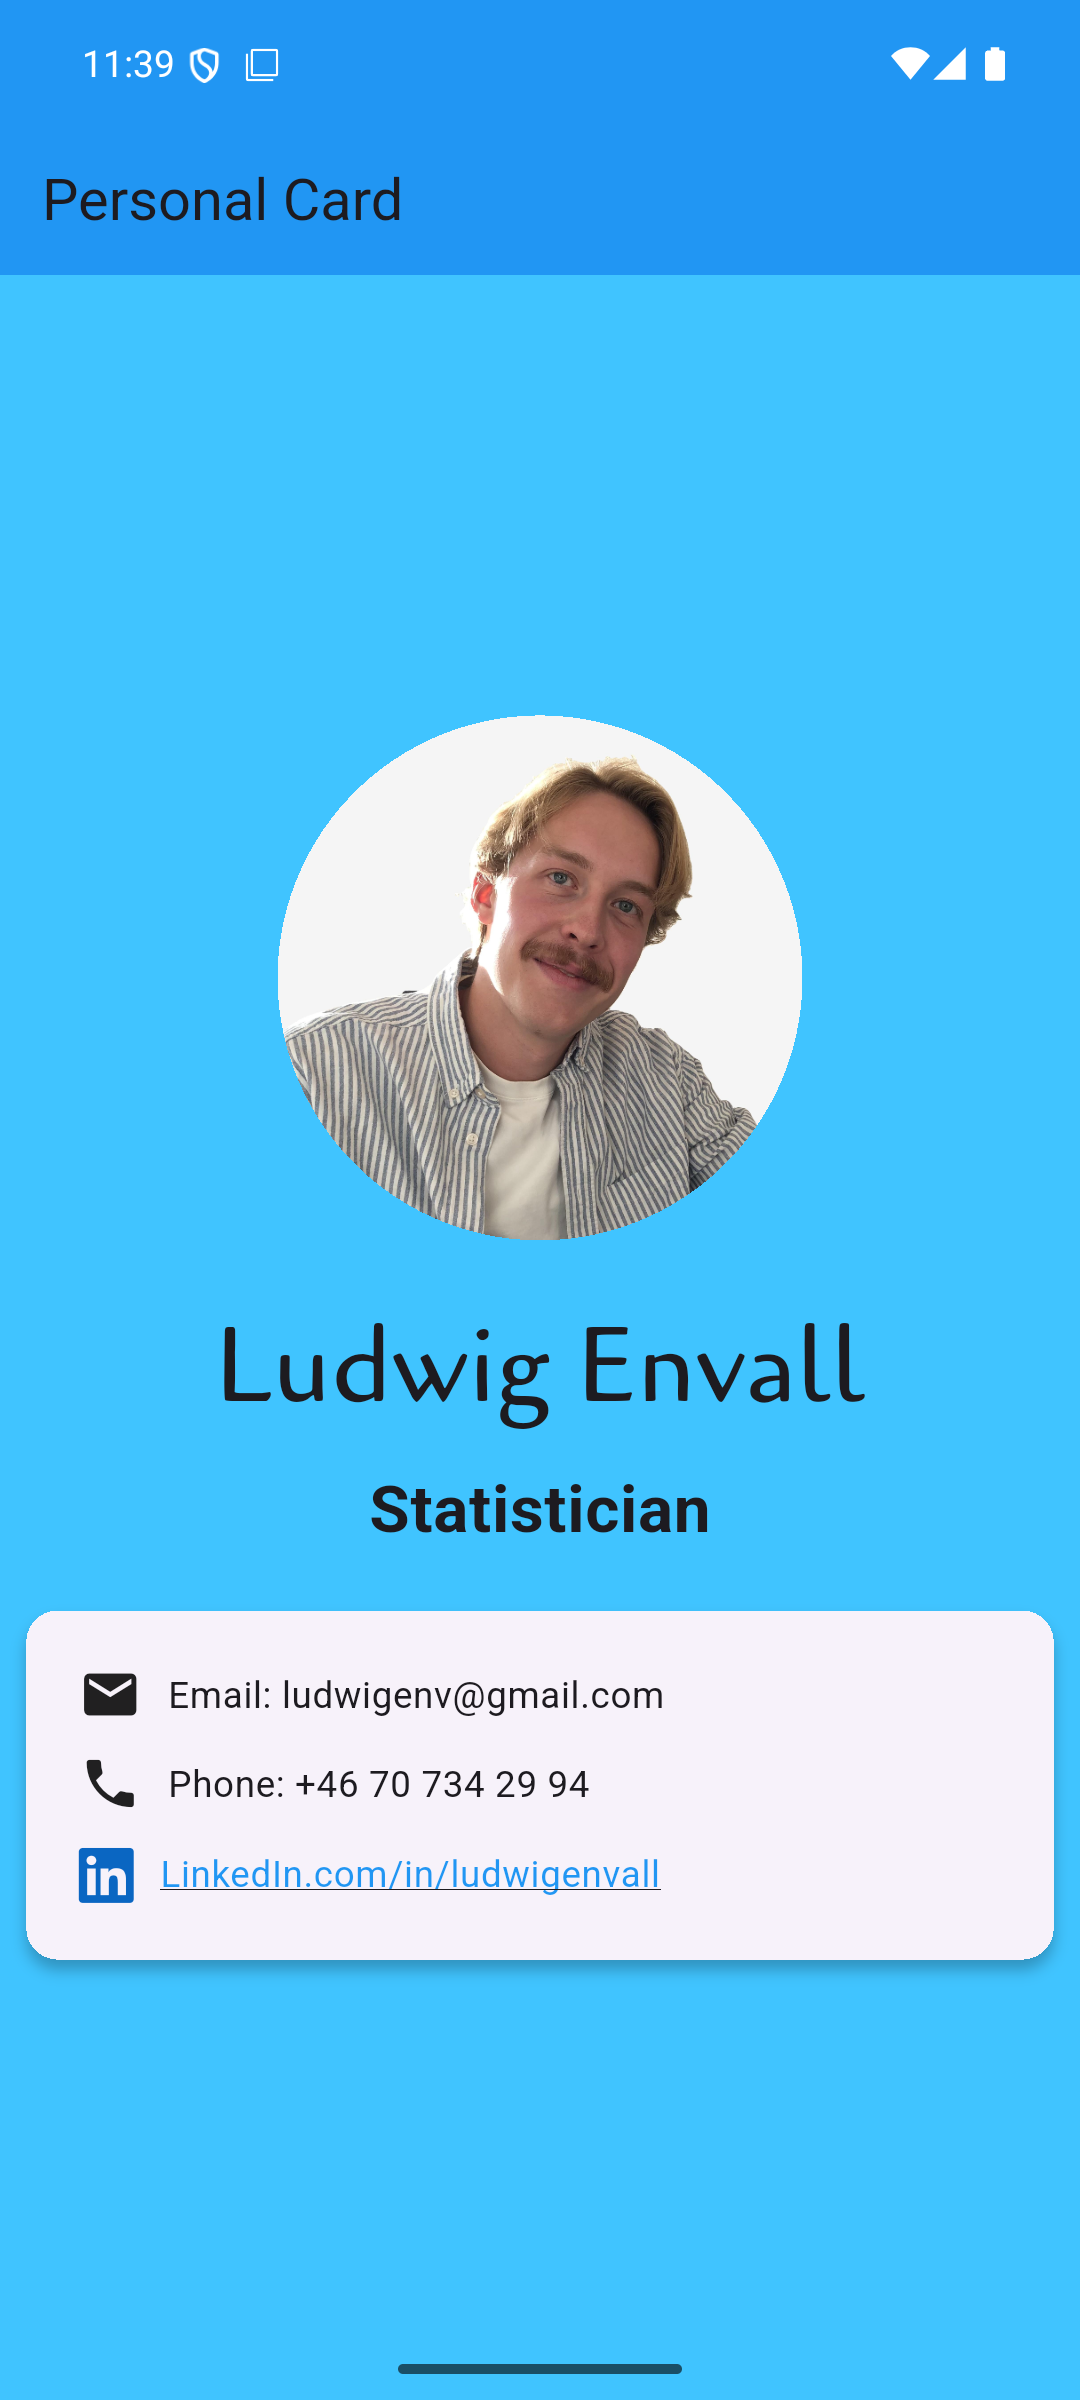
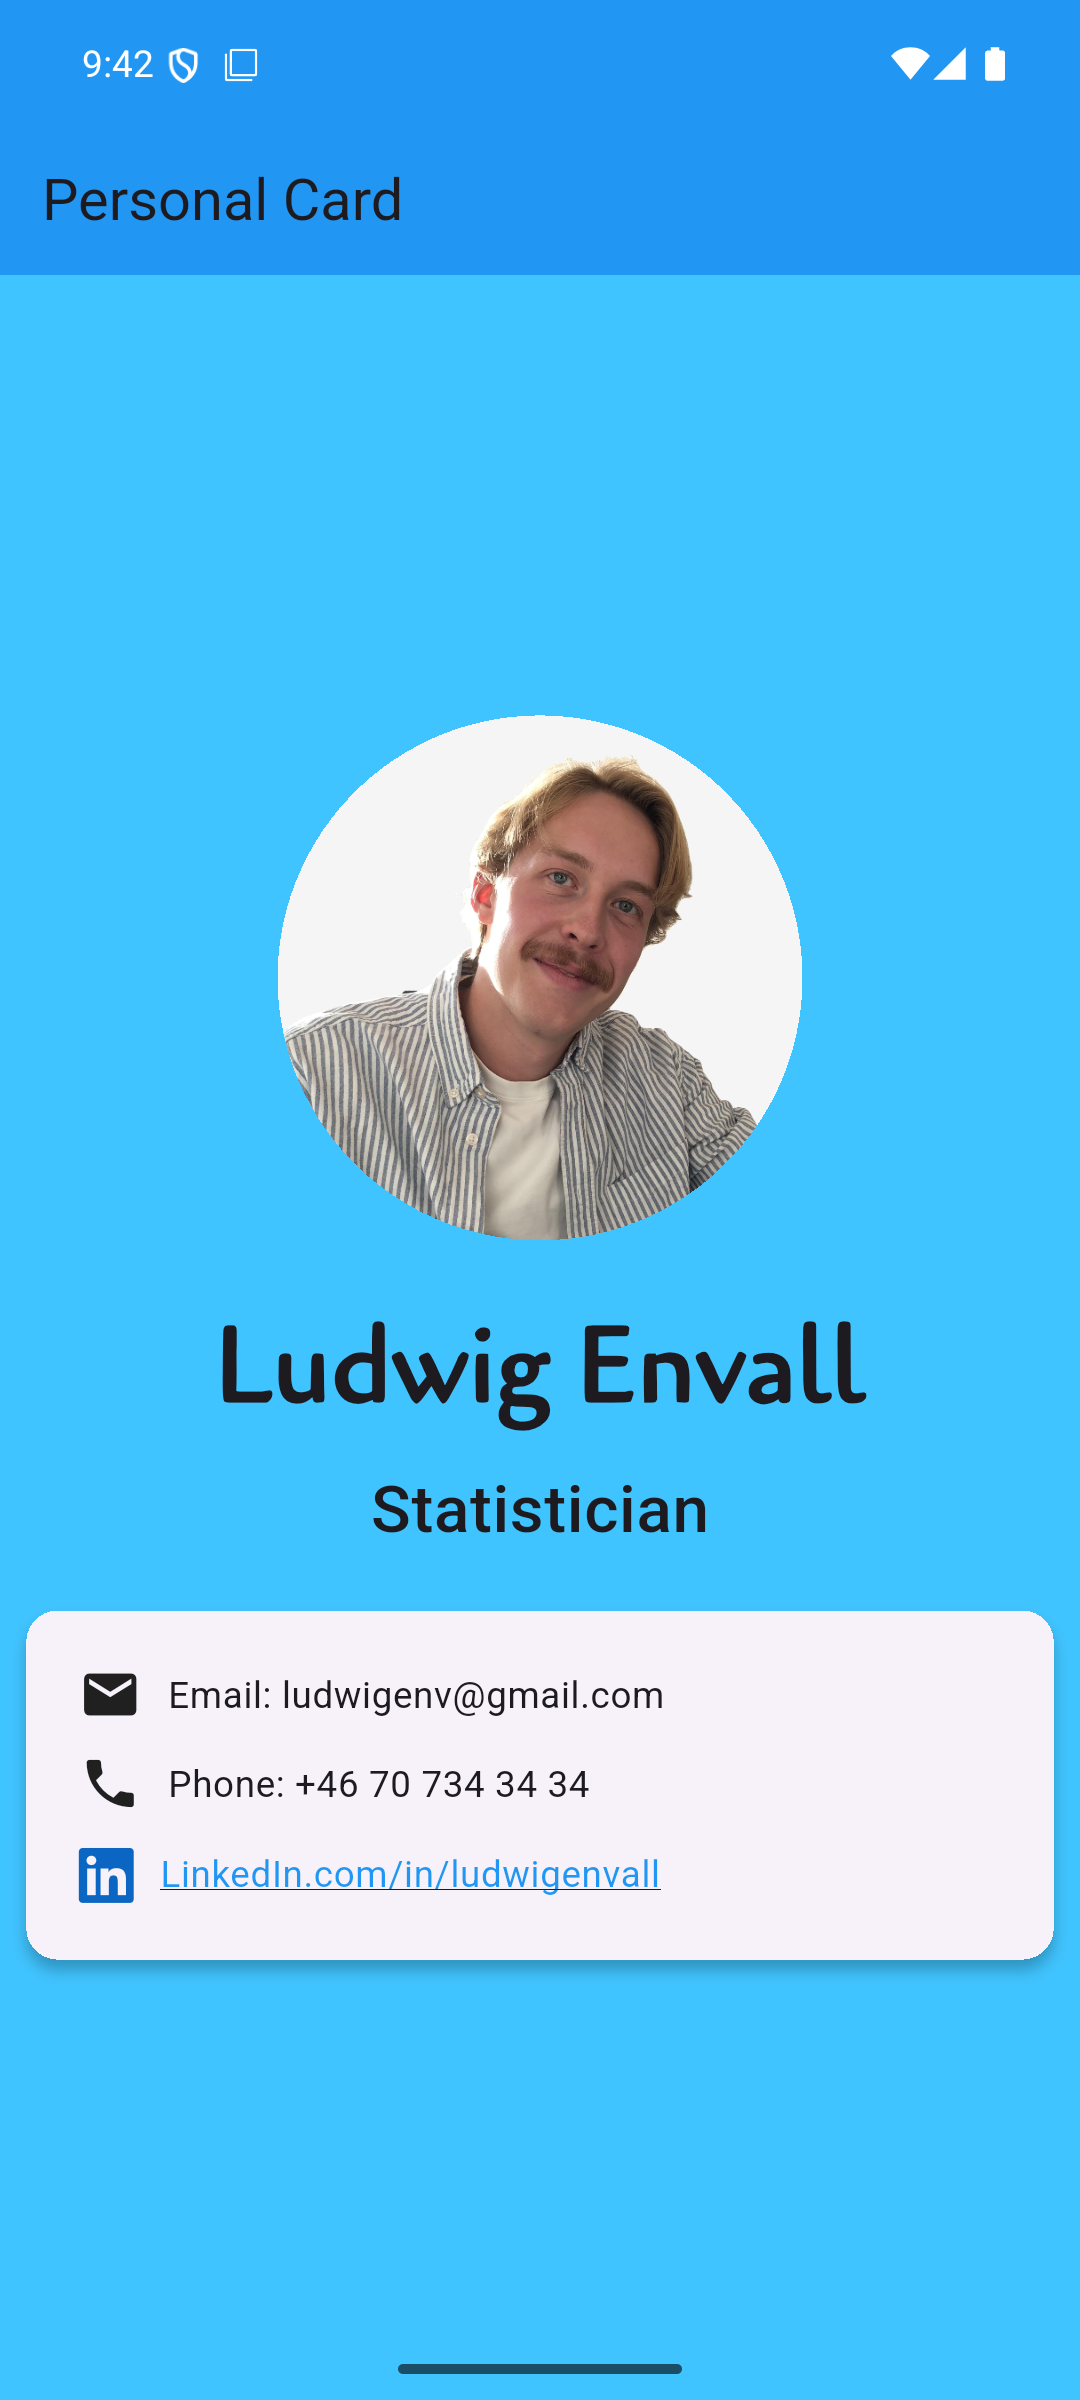
Update

diff --git a/lib/main.dart b/lib/main.dart
@@ -46,7 +46,7 @@ class PersonKort extends StatelessWidget {
           children: [
             const CircleAvatar(
               radius: 100,
-              backgroundImage: AssetImage('assets/ludwig.jpg'),
+              backgroundImage: AssetImage('assets/picture.jpg'),
             ),
             const SizedBox(height: 20),
 
@@ -54,14 +54,14 @@ class PersonKort extends StatelessWidget {
               'Ludwig Envall',
               style: GoogleFonts.cagliostro(
                 fontSize: 40,
-                fontWeight: FontWeight.w500,
+                fontWeight: FontWeight.bold,
               ),
             ),
             const SizedBox(height: 8),
 
             const Text(
               'Statistician',
-              style: TextStyle(fontWeight: FontWeight.bold, fontSize: 25),
+              style: TextStyle(fontWeight: FontWeight.w500, fontSize: 25),
             ),
             const SizedBox(height: 20),
 
@@ -74,17 +74,17 @@ class PersonKort extends StatelessWidget {
                   children: [
                     Row(
                       children: [
-                        Icon(Icons.email),
+                        Icon(Icons.email), //mail icon
                         SizedBox(width: 10),
-                        Text('Email: ludwigenv@gmail.com'),
+                        Text('Email: ludwigenv@gmail.com'), // my gmail
                       ],
                     ),
                     SizedBox(height: 10),
                     Row(
                       children: [
-                        Icon(Icons.phone),
+                        Icon(Icons.phone), // phone icon
                         SizedBox(width: 10),
-                        Text('Phone: +46 70 734 29 94'),
+                        Text('Phone: +46 70 734 34 34'), // not my number
                       ],
                     ),
                     const SizedBox(height: 10),
@@ -96,8 +96,8 @@ class PersonKort extends StatelessWidget {
                       child: Row(
                         children: [
                           const FaIcon(
-                            FontAwesomeIcons.linkedin,
-                            color: Color(0xFF0A66C2),
+                            FontAwesomeIcons.linkedin, // LinkedIn icon
+                            color: Color(0xFF0A66C2), //LinkedIn blue
                           ),
                           const SizedBox(width: 10),
                           const Text(
